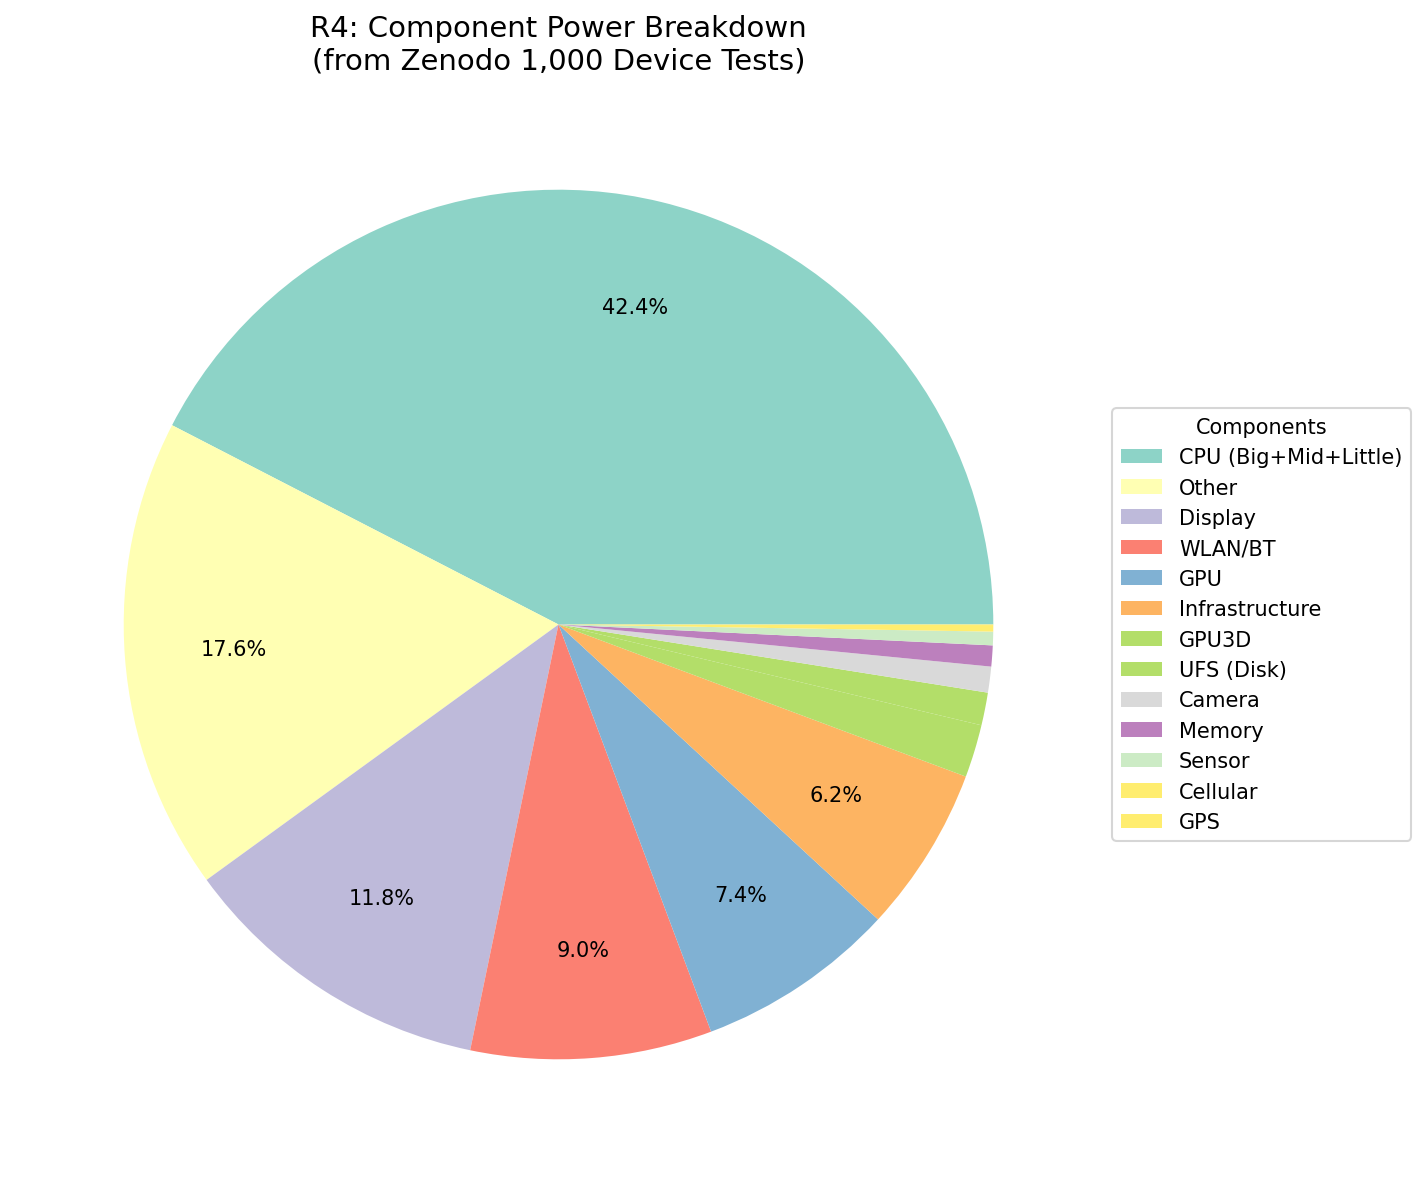
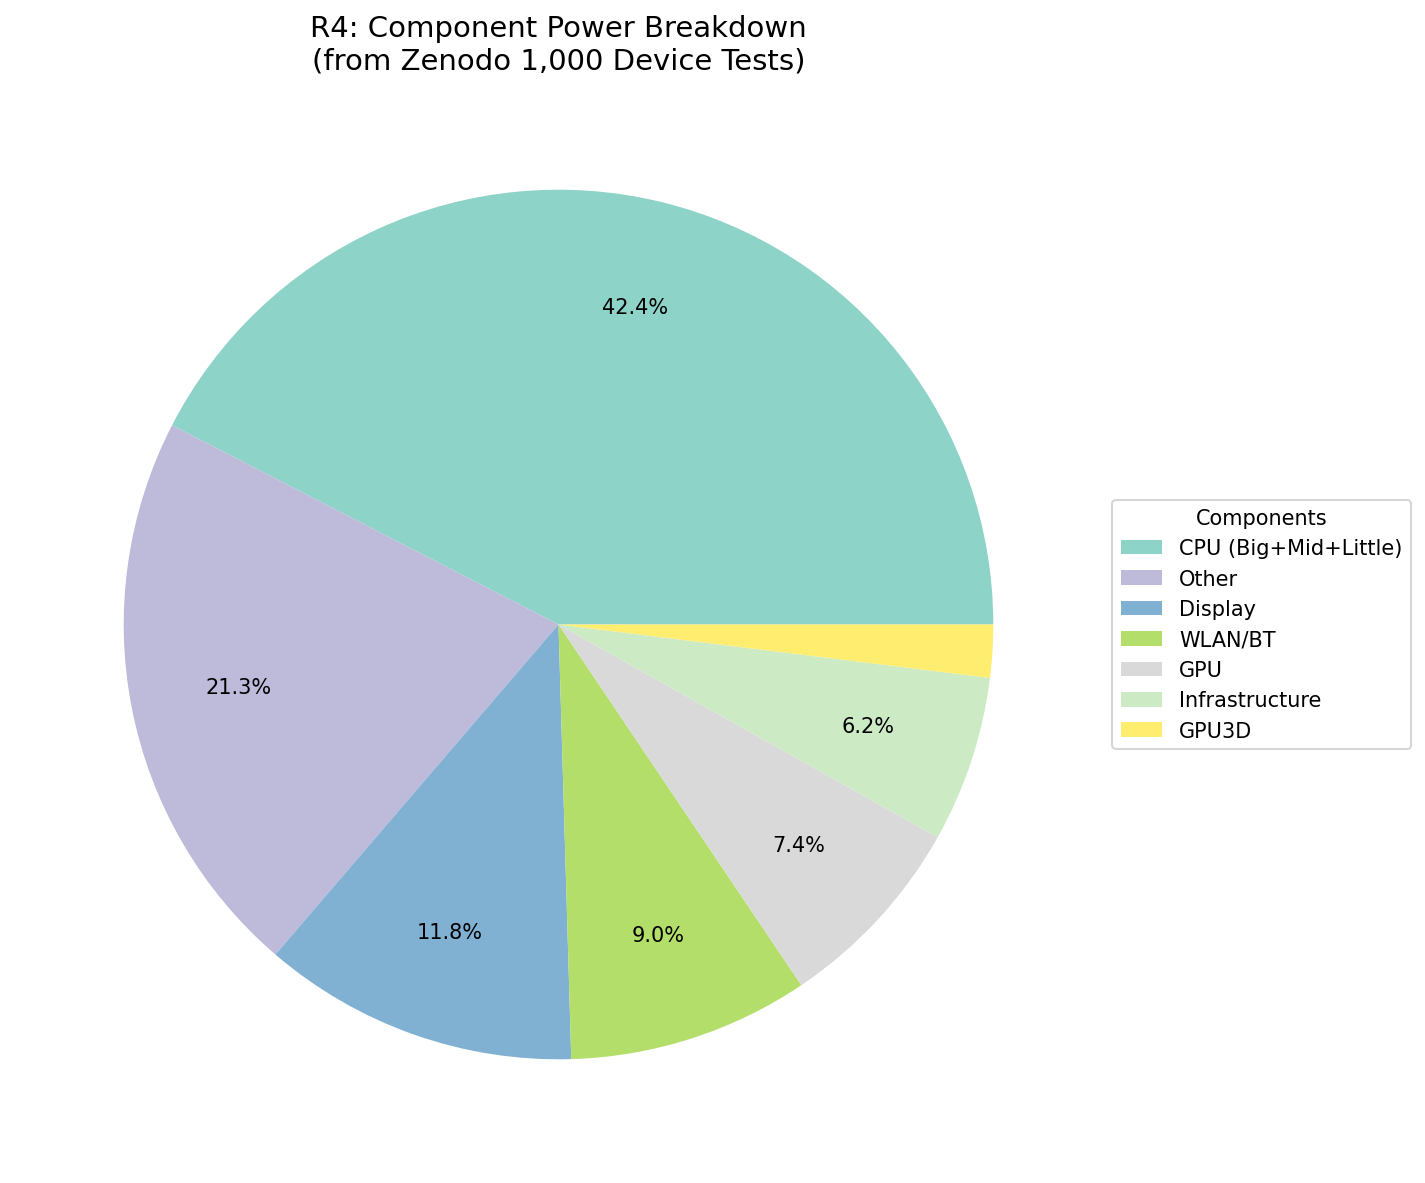
Fix R4 pie chart Other percentage to match table (21.2%)
- Group smaller components (UFS, Camera, Memory, Sensor, Cellular, GPS) into "Other"
- "Other" now includes untracked power: 21.3% ≈ 21.2% (matches documentation)
- Chart now shows 7 categories matching the table in Section 6.3

Changed region(s): [[0.0618, 0.3652, 0.7102, 0.9129], [0.7719, 0.3347, 1.0, 0.6999], [0.9881, 0.6391, 1.0, 0.6999]]

diff --git a/run_mcm_analysis.py b/run_mcm_analysis.py
@@ -714,18 +714,34 @@ def generate_figures(model: ZenodoBasedSOCModel, r2_results: dict,
     print(f"Saved: {FIGURES_DIR}/mcm_sensitivity_analysis.png")
     
     # Figure 3: Component breakdown pie chart
+    # Match the table in documentation: 7 categories with "Other" ≈ 21.2%
+    # (UFS, Camera, Memory, Sensor, Cellular, GPS + untracked power grouped into "Other")
     fig, ax = plt.subplots(figsize=(10, 8))
     
     components = zenodo_params.get('component_breakdown', {}).get('percentages', {})
-    labels = list(components.keys())
-    sizes = list(components.values())
     
-    # Add "Other" category for missing percentage to ensure total = 100%
-    total_pct = sum(sizes)
-    if total_pct < 100 - 0.01:  # Use tolerance for floating point comparison
-        other_pct = 100 - total_pct
-        labels.append('Other')
-        sizes.append(other_pct)
+    # Define major components to show individually (matches table in documentation)
+    major_components = ['CPU (Big+Mid+Little)', 'Display', 'WLAN/BT', 'GPU', 'Infrastructure', 'GPU3D']
+    
+    labels = []
+    sizes = []
+    other_pct = 0.0
+    
+    for comp, pct in components.items():
+        if comp in major_components:
+            labels.append(comp)
+            sizes.append(pct)
+        else:
+            # Group smaller components (UFS, Camera, Memory, Sensor, Cellular, GPS) into "Other"
+            other_pct += pct
+    
+    # Add remaining untracked percentage to "Other" to ensure total = 100%
+    total_tracked = sum(sizes) + other_pct
+    if total_tracked < 100 - 0.01:
+        other_pct += 100 - total_tracked
+    
+    labels.append('Other')
+    sizes.append(other_pct)
     
     # Sort by size for better visualization
     sorted_pairs = sorted(zip(sizes, labels), reverse=True)
